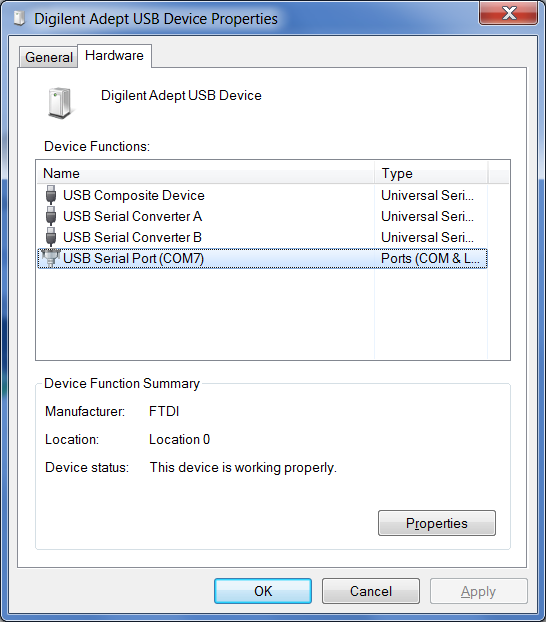
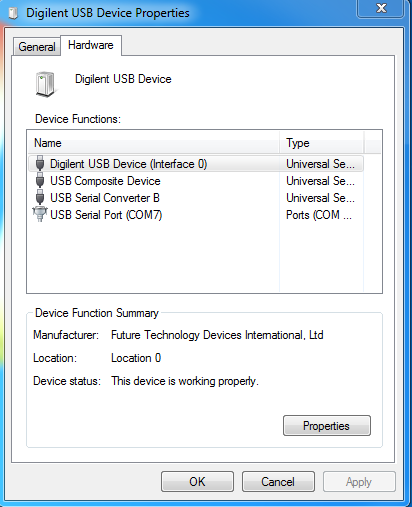
Create 'How to Use OpenOCD on Windows' page

Changed region(s): [[0.0, 0.0, 1.0, 1.0], [0.699, 0.7988, 0.932, 0.8876], [0.6699, 0.8284, 0.699, 0.858]]

diff --git a/How-to-Use-OpenOCD-on-Windows.md b/How-to-Use-OpenOCD-on-Windows.md
@@ -1,0 +1,32 @@
+
+## Replacing a driver
+
+Before you can start using OpenOCD, you have to download WinUSB driver and
+replace with it one of FTDI drivers for your hardware development system.
+
+To do that, download [Zadig](http://zadig.akeo.ie/) and run it. You should be
+able to see **Digilent Adept USB Device** in the list of devices.
+
+![Zadig Device List](images/debugging/openocd/zadig_device_list.png)
+
+ _Device List_
+
+If your device is not shown by Zadig, tick **List all devices** in **Options**. For
+EM Starter Kit, select **Digilent Adept USB Device (Interface 0)**, choose
+**WinUSB** driver and press **Replace Driver**. Your FTDI driver will be replaced
+with WinUSB.
+
+![Zadig Dialog](images/debugging/openocd/zadig_dialog.png)
+
+ _Zadig Dialog_
+
+If you are using AXS10x board, the only thing that differs is that instead of
+**Digilent Adept USB Device (Interface 0)** you should select **Digilent Adept USB
+Device (Interface 1)**.
+
+Note that antivirus might complain about drivers files created by Zadig.
+
+> If you want to change driver for your device back for some reason, you can
+> uninstall current driver in "Devices and Printers" and then reconnect your board
+> to the computer, Windows will install the driver automatically.
+

diff --git a/Getting-Started-with-EM-Starter-Kit.md b/Getting-Started-with-EM-Starter-Kit.md
@@ -62,6 +62,10 @@ Debugging the project
 Once the project is successfully compiled by ARC GCC, you can debug the
 resulting executable on the EM Starter Kit board.
 
+> If you are using Windows platform, please configure drivers for your EM Starter
+> Kit before you begin debug process. For the instructions see
+> [How to use OpenOCD on Windows](How-to-Use-OpenOCD-on-Windows).
+
 To debug the project, create a new debug configuration.
 
 1. Select **Debug Configurations**  from the  **Run**  menu or by clicking on
@@ -96,10 +100,9 @@ project name followed by "Debug").
     Select **EM Starter Kit v2.x** or **EM Starter Kit v1.x** as development
  system depending on your EM Starter Kit version.
 
-    The **COM Ports** picklist at **Terminal** tab shows the value for Digilent
-    USB Serial Port from the Windows registry. You can modify the value as
-    desired, but the selection must match the port number in Device and
-    Printers as shown in below.
+    Open **Terminal** tab and select COM Port. For Linux choose
+    **/dev/ttyUSB1**. For Windows COM Port should match the port number in
+    "Device and Printers" as shown below.
 
     ![Digilent USB Serial COM Port](images/debugging/serial_port_window.png)
 

diff --git a/Debugging-with-OpenOCD.md b/Debugging-with-OpenOCD.md
@@ -5,6 +5,14 @@ pages:
 * [Building an Application](Building-User-Guide)
 * [Creating a Debug Configuration](Creating-a-Debug-Configuration)
 
+### Configuring drivers on Windows
+
+If you are using Windows, you should configure drivers for your device before
+you start.
+
+About how to do it see [How to Use OpenOCD on
+Windows](How-to-Use-OpenOCD-on-Windows).
+
 ### Specifying OpenOCD properties
 
 ![OpenOCD debugger tab](images/debugging/openocd/openocd_tab.png)
@@ -15,6 +23,17 @@ In this tab you can choose your development system and then in the **OpenOCD
 OpenOCD. If you want to use another configuration file, you can choose **Custom
 configuration file** under **Development system** and select your own file in the
 enabled **OpenOCD configuration file** field.
+
+### Choosing COM Port
+
+Open **Terminal** tab and select COM Port from the list. On Linux select
+**/dev/ttyUSB1** for EM Starter Kit and **/dev/ttyUSB0** for AXS10x. On Windows
+select COM port matching the port number from "Devices and Printers":
+
+![USB Serial COM Port](images/debugging/serial_port_window.png)
+
+   _USB Serial COM Port_
+
 
 ### Starting a debug session
 

diff --git a/User-Guide.md b/User-Guide.md
@@ -9,6 +9,7 @@
 
 * [Creating a debug configuration](Creating-a-Debug-Configuration)
 * [Debugging with OpenOCD](Debugging-with-OpenOCD)
+* [How to use OpenOCD on Windows](How-to-Use-OpenOCD-on-Windows)
 * [Debugging with Opella-XD](Debugging-with-OpellaXD)
 * [Debugging with nSIM](Debugging-with-nSIM)
 * [Debugging with custom GDB server](Debugging-with-Custom-GDB-Server)
